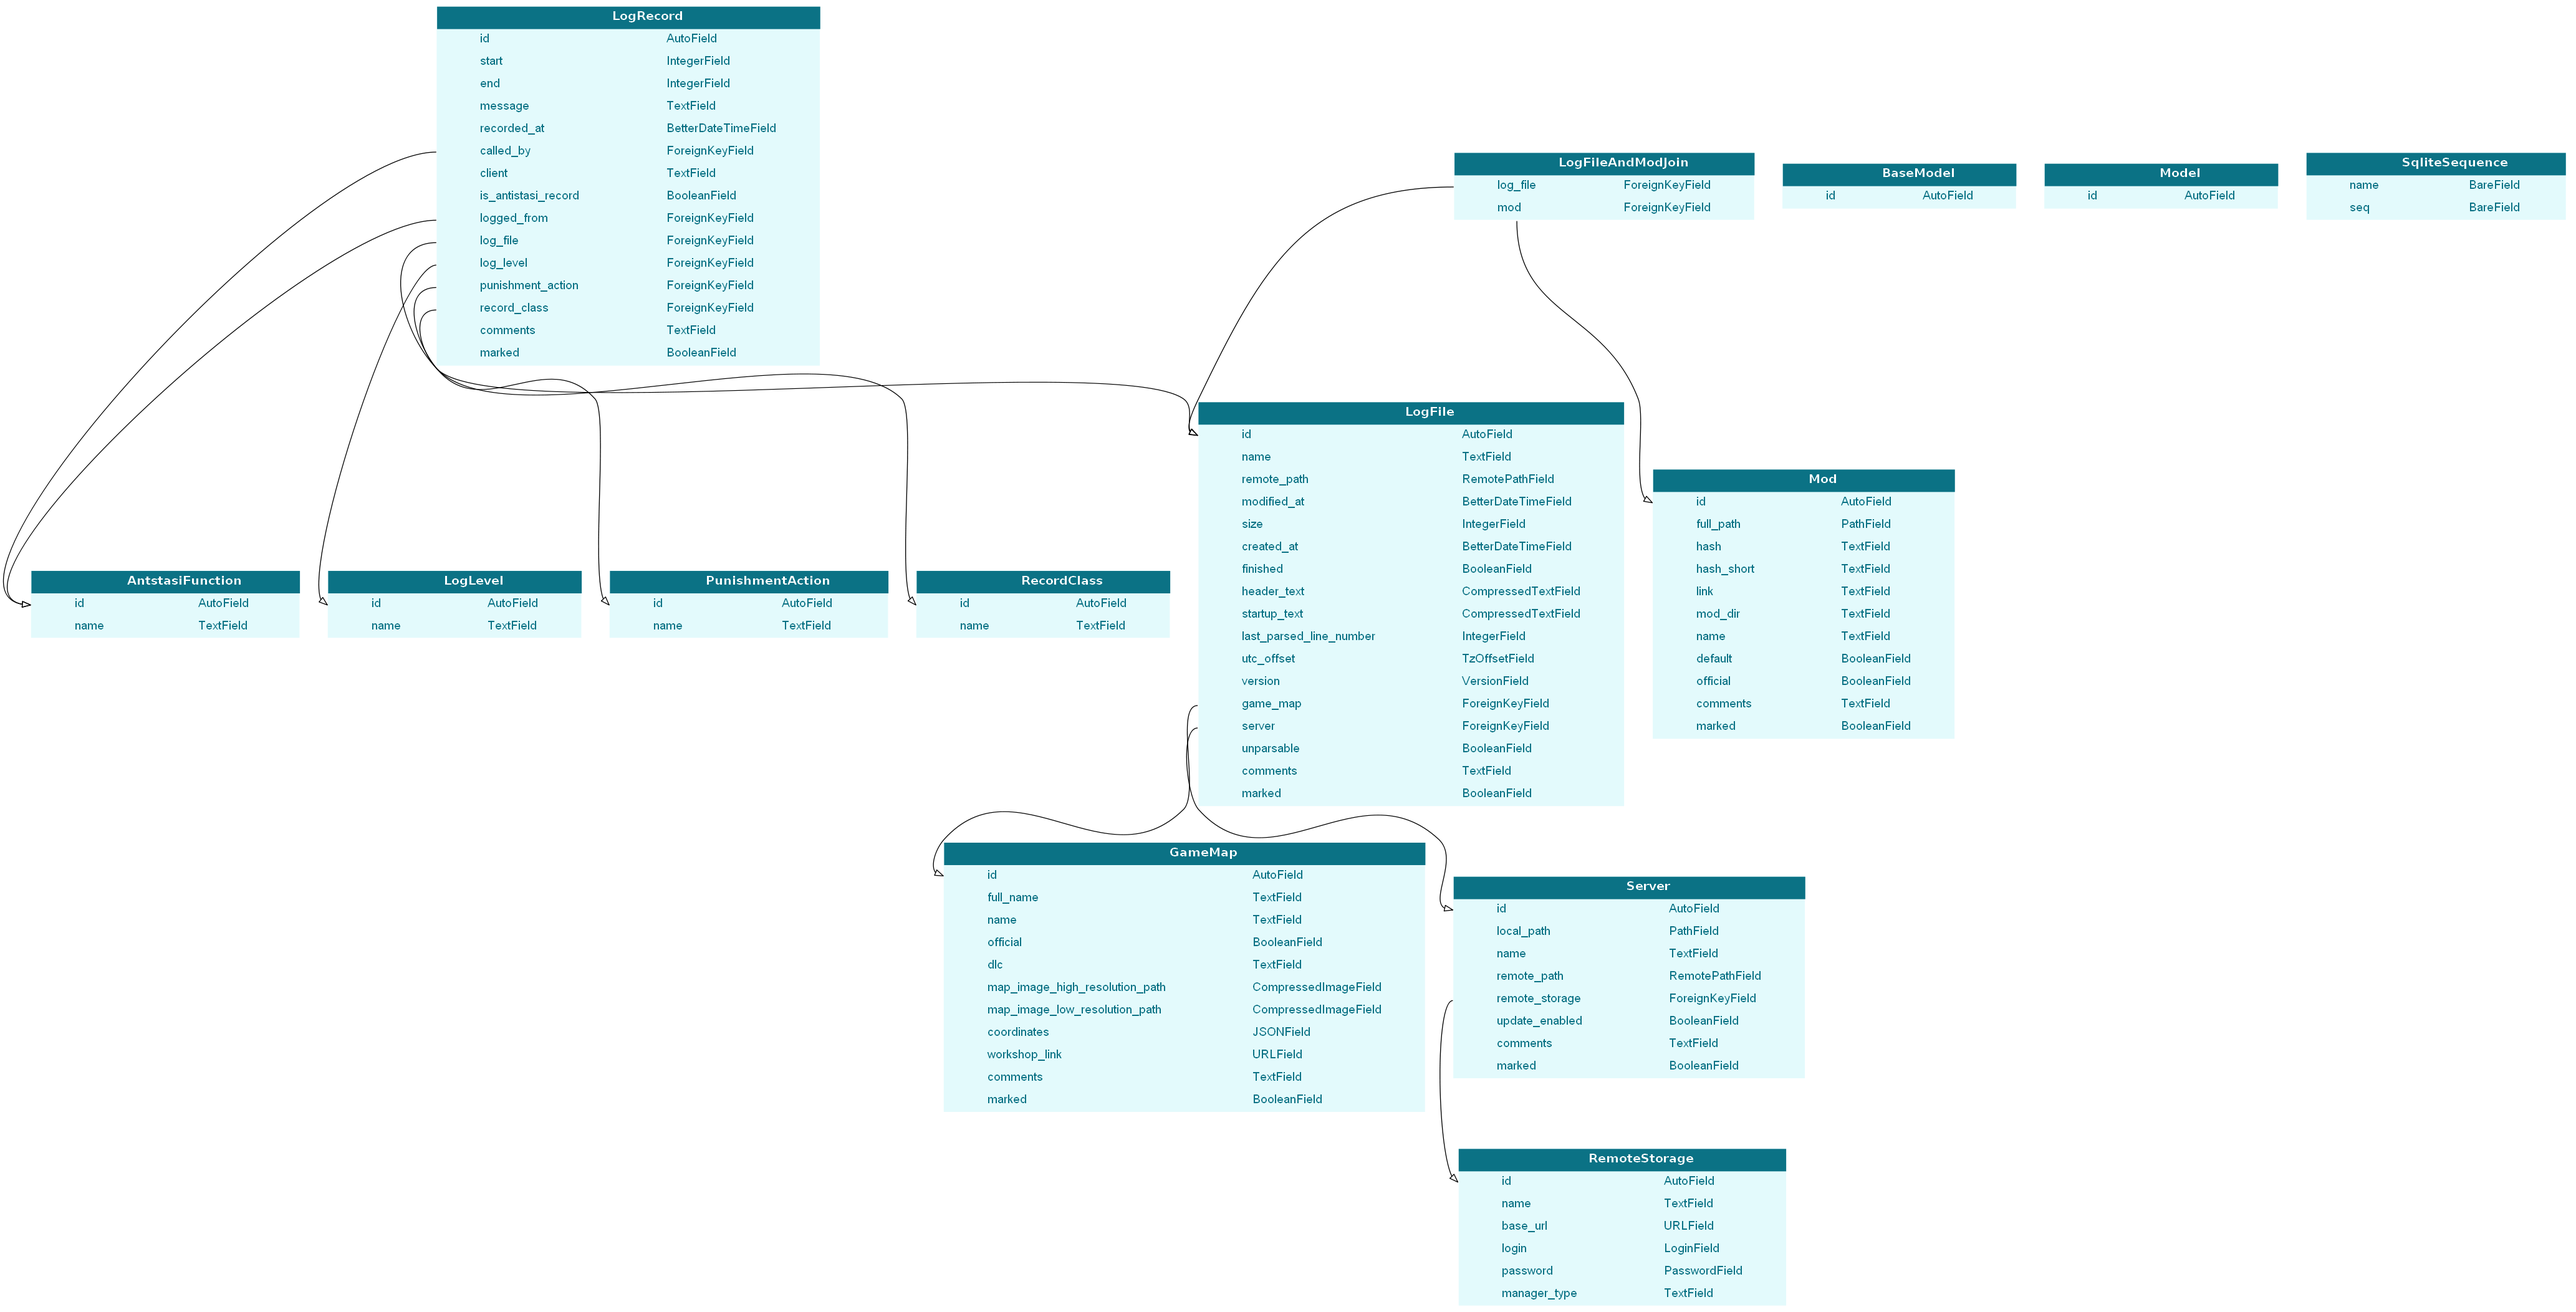
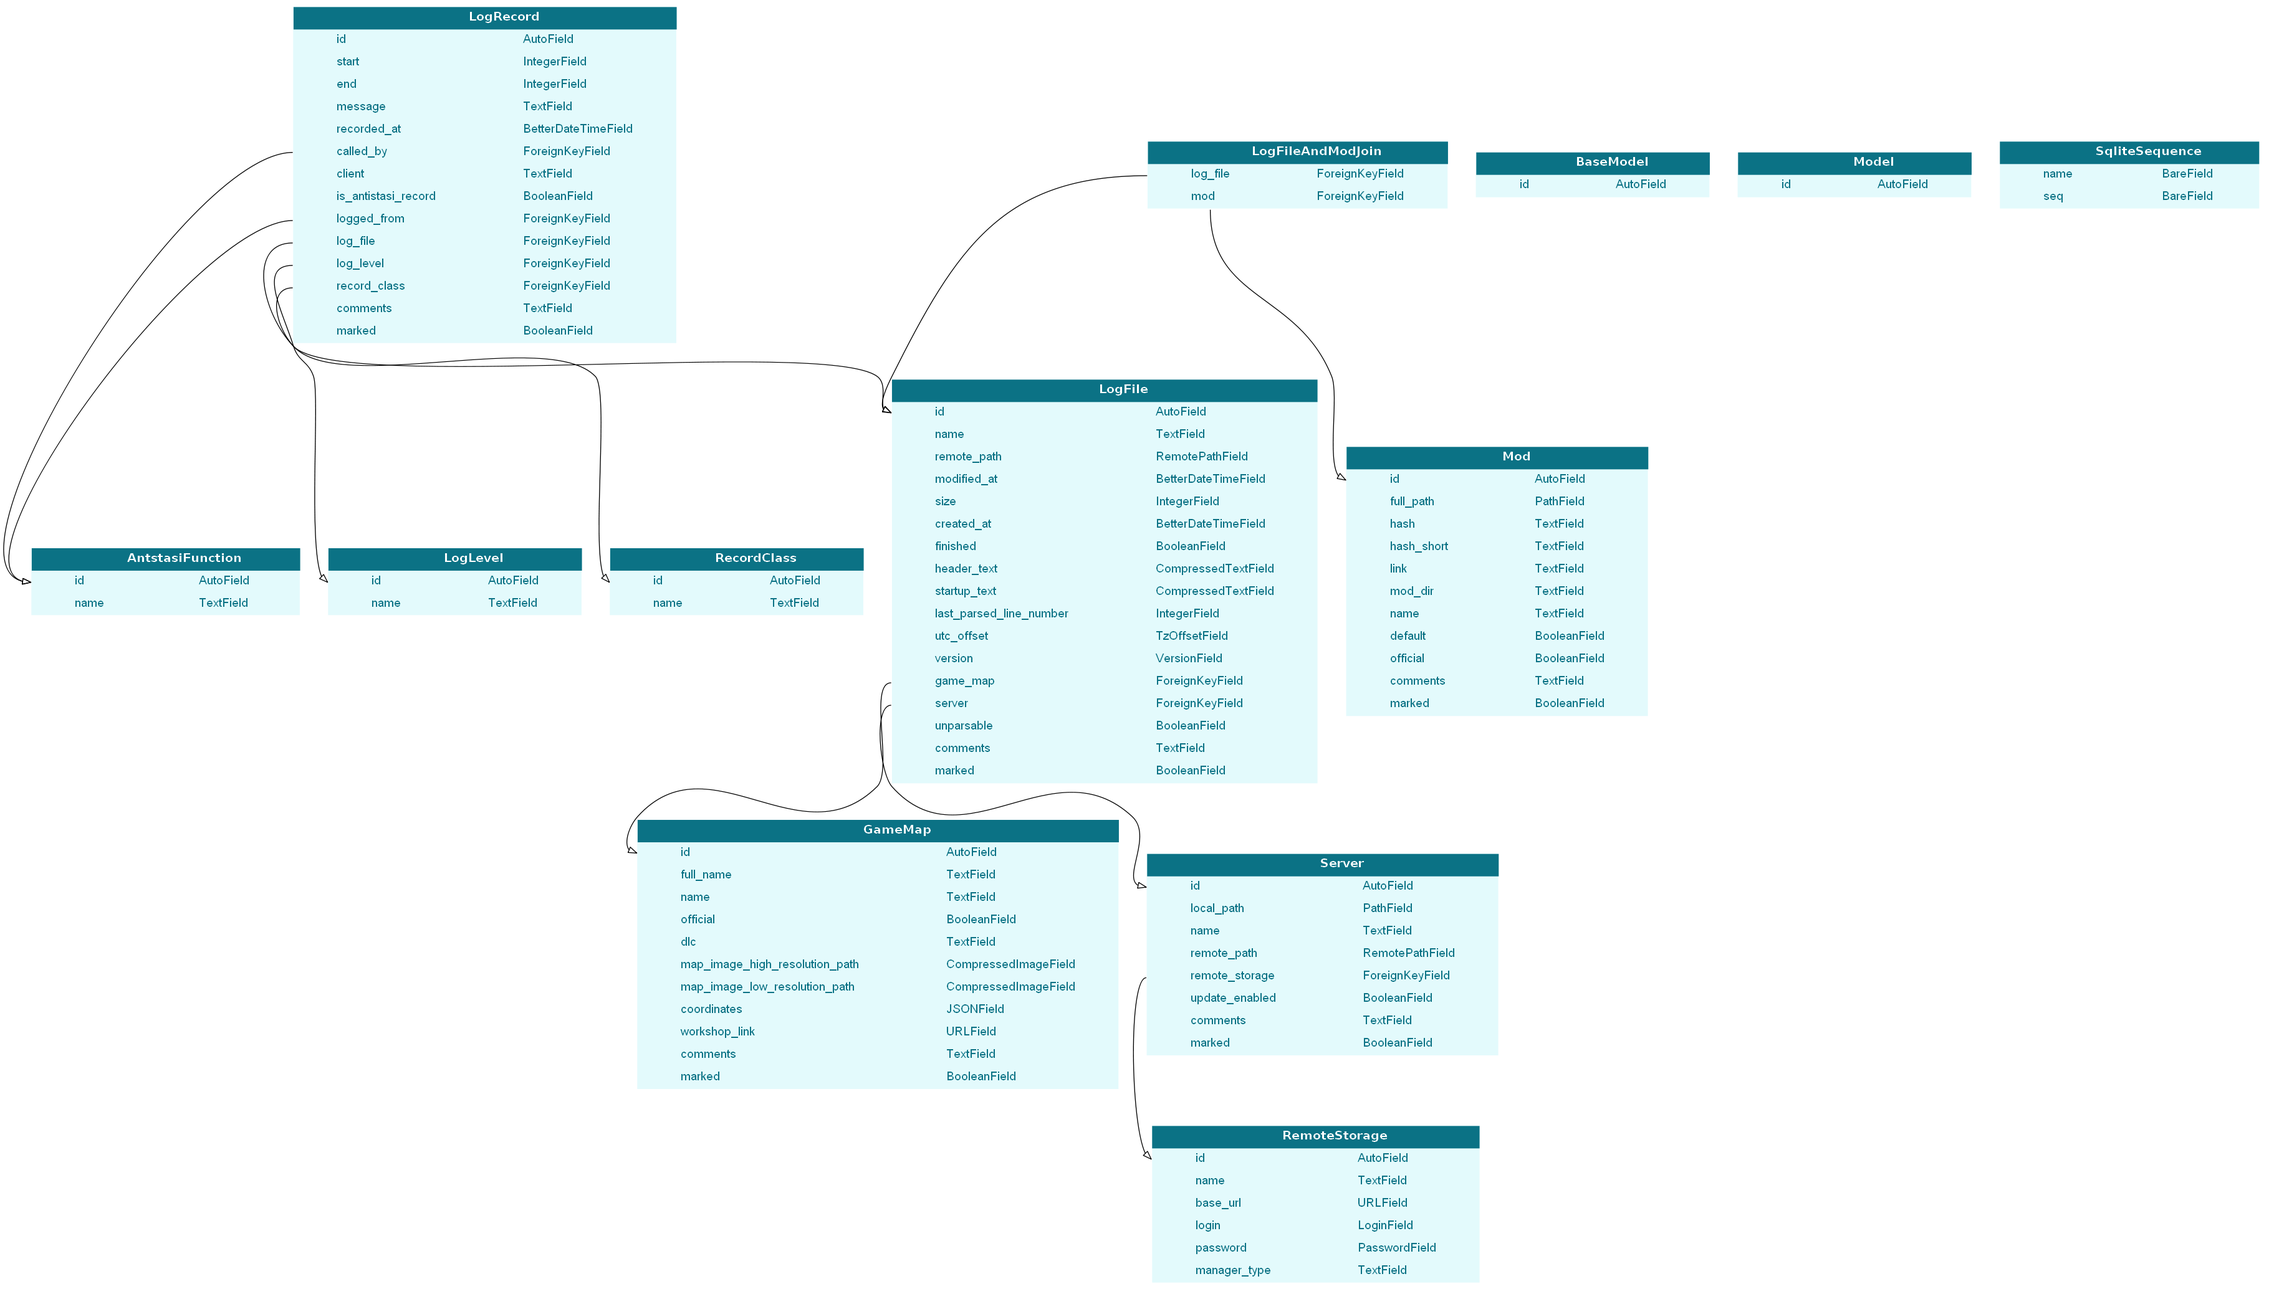
d

Changed region(s): [[0.0, 0.2784, 0.7761, 1.0], [0.1242, 0.0, 0.3415, 0.3093], [0.4967, 0.0928, 1.0, 0.1856]]

diff --git a/antistasi_logbook/parsing/parser.py b/antistasi_logbook/parsing/parser.py
@@ -60,12 +60,12 @@ from gidapptools.general_helper.timing import time_func
 from gidapptools.general_helper.enums import MiscEnum
 from rich.console import Console as RichConsole
 from antistasi_logbook.parsing.record_class_manager import RecordClassManager
-from antistasi_logbook.storage.models.models import LogFile, RecordClass, LogRecord, LogLevel, PunishmentAction, AntstasiFunction
+from antistasi_logbook.storage.models.models import LogFile, RecordClass, LogRecord, LogLevel, AntstasiFunction
 from antistasi_logbook.records.enums import PunishmentActionEnum
 from dateutil.tz import UTC
 import peewee
 from playhouse.signals import Model, post_save
-from antistasi_logbook.utilities.locks import DB_LOCK
+
 from threading import RLock
 if TYPE_CHECKING:
 
@@ -266,7 +266,6 @@ def to_record_parsing_error_file(raw_record: "RawRecord", problem: str) -> None:
 class RawRecord:
     antistasi_file_model_lock = RLock()
     _all_log_levels: tuple[LogLevel] = None
-    _all_punishment_actions: tuple[PunishmentAction] = None
     _all_antistasi_file_objects: dict[str, AntstasiFunction] = None
     __slots__ = ("lines", "is_antistasi_record", "start", "end", "content", "parsed_data", "record_class", "log_file")
 
@@ -308,12 +307,6 @@ class RawRecord:
             self.__class__._all_log_levels = tuple(LogLevel.select())
         return self.__class__._all_log_levels
 
-    @property
-    def all_punishment_actions(self) -> tuple[PunishmentAction]:
-        if self.__class__._all_punishment_actions is None:
-            self.__class__._all_punishment_actions = tuple(PunishmentAction.select())
-        return self.__class__._all_punishment_actions
-
     def _parse_generic_entry(self, regex_keeper: RegexKeeper) -> dict[str, Any]:
         match = regex_keeper.generic_entry.search(self.content)
         if not match:
@@ -344,9 +337,9 @@ class RawRecord:
         logged_from_item = self.all_antistasi_file_objects.get(logged_from_item_name, None)
         if logged_from_item is None:
             print(f"file {logged_from_item_name!r} not found")
-            with self.antistasi_file_model_lock:
-                logged_from_item = AntstasiFunction(name=logged_from_item_name)
-                logged_from_item.save()
+
+            logged_from_item = AntstasiFunction(name=logged_from_item_name)
+            logged_from_item.save()
 
         # with self.antistasi_file_model_lock:
 
@@ -364,17 +357,12 @@ class RawRecord:
                 called_by_item = self.all_antistasi_file_objects.get(called_by_item_name, None)
                 if called_by_item is None:
                     print(f"file {called_by_item_name!r} not found")
-                    with self.antistasi_file_model_lock:
-
-                        called_by_item = AntstasiFunction(name=called_by_item)
-                        called_by_item.save()
+                    called_by_item = AntstasiFunction(name=called_by_item)
+                    called_by_item.save()
                 _out["called_by"] = called_by_item
                 to_pop.append(idx)
             elif part.startswith("Client:"):
                 _out['client'] = part.removeprefix("Client:").strip()
-                to_pop.append(idx)
-            elif part in PunishmentActionEnum.__members__:
-                _out["punishment_action"] = [p for p in self.all_punishment_actions if p.name == part.strip().upper()][0]
                 to_pop.append(idx)
 
         rest = [p for idx, p in enumerate(other_parts) if idx not in to_pop]

diff --git a/antistasi_logbook/storage/models/models.py b/antistasi_logbook/storage/models/models.py
@@ -21,7 +21,7 @@ from rich.console import Console as RichConsole
 from antistasi_logbook.utilities.misc import Version
 from antistasi_logbook.data.misc import LOG_FILE_DATE_REGEX
 from dateutil.tz import tzoffset, UTC
-from antistasi_logbook.utilities.locks import DB_LOCK
+
 from time import sleep
 if TYPE_CHECKING:
     from antistasi_logbook.updating.remote_managers import AbstractRemoteStorageManager, InfoItem
@@ -348,13 +348,6 @@ class RecordClass(BaseModel):
         return self._meta.database.record_class_manager.get_by_name(self.name)
 
 
-class PunishmentAction(BaseModel):
-    name = TextField(unique=True)
-
-    class Meta:
-        table_name = 'PunishmentAction'
-
-
 class LogRecord(BaseModel):
     start = IntegerField()
     end = IntegerField()
@@ -366,7 +359,6 @@ class LogRecord(BaseModel):
     logged_from = ForeignKeyField(column_name='logged_from', field='id', model=AntstasiFunction, lazy_load=True, null=True)
     log_file = ForeignKeyField(column_name='log_file', field='id', model=LogFile, lazy_load=True, backref="log_records", null=False)
     log_level = ForeignKeyField(column_name='log_level', constraints=[SQL("DEFAULT 0")], field='id', model=LogLevel, null=True, lazy_load=True)
-    punishment_action = ForeignKeyField(column_name='punishment_action', constraints=[SQL("DEFAULT 0")], field='id', model=PunishmentAction, null=True, lazy_load=True)
     record_class = ForeignKeyField(column_name='record_class', field='id', model=RecordClass, lazy_load=True)
     comments = TextField(null=True)
     marked = BooleanField(constraints=[SQL("DEFAULT 0")])

diff --git a/antistasi_logbook/storage/database.py b/antistasi_logbook/storage/database.py
@@ -62,6 +62,7 @@ from gidapptools.general_helper.conversion import human2bytes
 from antistasi_logbook.storage.models.models import database, Server, RemoteStorage, LogFile, RecordClass, LogRecord
 from antistasi_logbook.updating.remote_managers import AbstractRemoteStorageManager, LocalManager, WebdavManager
 from rich.console import Console as RichConsole
+from rich import inspect as rinspect
 from antistasi_logbook.parsing.record_class_manager import RecordClassManager
 if TYPE_CHECKING:
     from gidapptools.gid_config.interface import GidIniConfig
@@ -84,6 +85,7 @@ META_PATHS: MetaPaths = get_meta_paths()
 META_INFO = get_meta_info()
 CONFIG: "GidIniConfig" = get_meta_config().get_config('general')
 CONFIG.config.load()
+CONSOLE = RichConsole(soft_wrap=True)
 # endregion[Constants]
 
 FIND_INT_REGEX = re.compile(r"\d+")
@@ -221,11 +223,13 @@ class GidSqliteQueueDatabase(SqliteQueueDatabase):
 
     def optimize(self) -> None:
         print("optimizing")
-        self.execute("OPTIMIZE")
+
+        self.execute_sql("OPTIMIZE")
 
     def vacuum(self) -> None:
         print("vacuuming!")
-        self.execute("VACUUM")
+
+        self.execute_sql("VACUUM")
 
     def stop(self):
         # self.pragma("optimize")
@@ -312,6 +316,7 @@ if __name__ == '__main__':
 
         x.vacuum()
         x.optimize()
+        x.vacuum()
     finally:
         x.stop()
         updater.close()

diff --git a/antistasi_logbook/parsing/parsing_context.py b/antistasi_logbook/parsing/parsing_context.py
@@ -149,10 +149,9 @@ class ParsingContext:
         if finder.full_datetime is not MiscEnum.DEFAULT:
             self.log_file.set_first_datetime(finder.full_datetime)
         if finder.mods is not None and finder.mods is not MiscEnum.DEFAULT:
+            with self.mod_model_lock:
+                for mod_item in finder.mods:
 
-            for mod_item in finder.mods:
-
-                with self.mod_model_lock:
                     try:
                         mod_entry = Mod.select().where(*[getattr(Mod, k) == v for k, v in mod_item.as_dict().items() if k in {'name', 'mod_dir', "full_path", "hash", "hash_short"}])[0]
                     except IndexError:

diff --git a/antistasi_logbook/updating/updater.py b/antistasi_logbook/updating/updater.py
@@ -56,7 +56,7 @@ from gidapptools import get_meta_config
 import mmap
 from threading import Thread, Event, Condition
 from antistasi_logbook.storage.models.models import Server, LogFile, LogRecord
-from antistasi_logbook.utilities.locks import DB_LOCK
+
 if TYPE_CHECKING:
 
     from antistasi_logbook.updating.remote_managers import AbstractRemoteStorageManager, InfoItem

diff --git a/antistasi_logbook/utilities/locks.py b/antistasi_logbook/utilities/locks.py
@@ -55,5 +55,5 @@ class MinDurationSemaphore(Semaphore):
 
     def __exit__(self, t, v, tb):
         self._sleep_to_minimum()
-        sleep(self.delay_seconds)
+        sleep(random.uniform(0.0, float(self.delay_seconds)))
         self.release()
